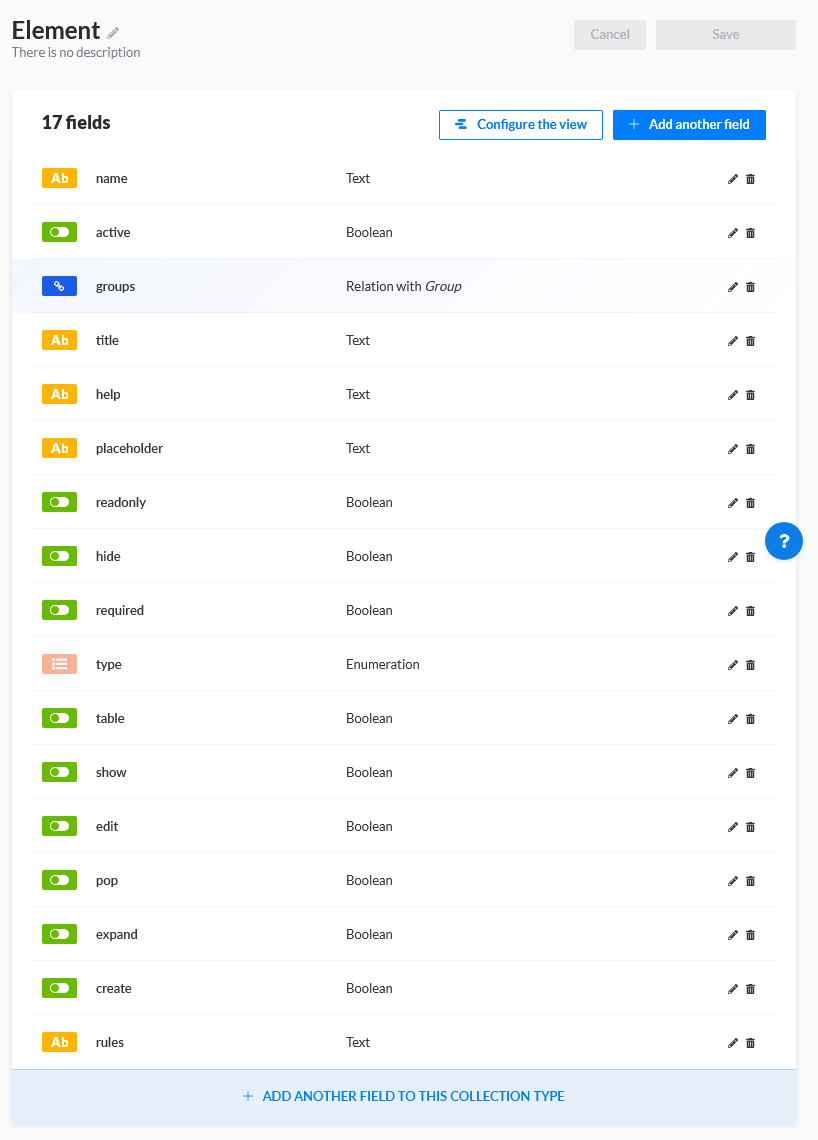
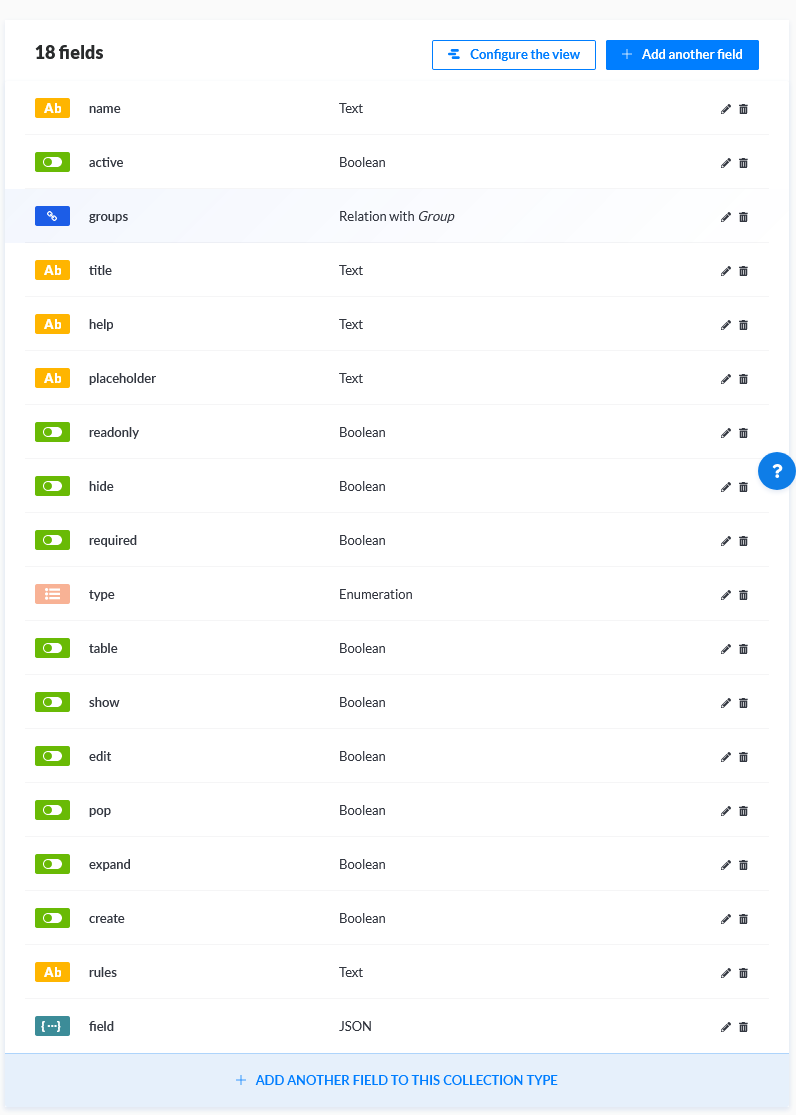
update and fix grammar mistakes

diff --git a/content/en/builder/api.md b/content/en/builder/api.md
@@ -1,25 +1,248 @@
 ---
-title: API structure
-description: ''
-position: 11
-category: 'Process Builder'
+title: API structure description: ''
+position: 11.1 category: 'Process Builder'
 ---
 
 ## Introduction
-process builder is a component which creates forms, groups and elements. 
-the configuration of process manager loads from API.
 
-## config
+process builder is a component which creates forms, groups and elements. VSD form builder uses 4 strapi collections with
+specific fields:
+1- form 2- group 3- element 4- records
 
-```js[config.js]
-export default {
-     title: 'Register New User',
-     formId: 1,
-     icon: "shield",
-     path: '/admin/process/register-user', // custom name
+as you see, we have to create following collections:
+
+## 1. form
+
+go to Strap Admin panel and create a form collection. this collection has relations to group (many-to-many) and record (
+one-to-many).
+
+list of fields:
+
+```json[form]
+{
+  "id": "string",
+  "name": "string",
+  "photo": {
+    "id": "string",
+    "name": "string",
+    "alternativeText": "string",
+    "caption": "string",
+    "width": 0,
+    "height": 0,
+    "formats": {},
+    "hash": "string",
+    "ext": "string",
+    "mime": "string",
+    "size": 0,
+    "url": "string",
+    "previewUrl": "string",
+    "provider": "string",
+    "provider_metadata": {},
+    "related": "string"
+  },
+  "active": true,
+  "groups": [
+    {
+      "id": "string",
+      "name": "string",
+      "pre_text": "string",
+      "after_text": "string",
+      "active": true,
+      "forms": [
+        "string"
+      ],
+      "photo": "string",
+      "title": "string",
+      "page_break": true,
+      "elements": [
+        "string"
+      ]
+    }
+  ],
+  "records": [
+    {
+      "id": "string",
+      "form": "string",
+      "meta": {},
+      "status": "string",
+      "data": {}
+    }
+  ],
+  "title": "string",
+  "pre_text": "string",
+  "after_text": "string"
 }
 ```
 
-## props
-- v-model 
-- label
+after that, when you want to load a form in VSD, you just need to put form id in `config.js` file like this:
+
+```js[config.js]
+export default {
+  title: 'Users',
+  formId: 1, // form id from Strapi
+  icon: "shield",
+  path: '/admin/process/register-user'
+}
+
+```
+
+![form-strapi](/content/form-strapi.png)
+
+## 2. group
+
+group collection has a relation with form, and also a many-to-many relation with element collection. like above, create
+a group collection with these fields in strapi:
+
+```json[group]
+{
+  "id": "string",
+  "title": "string",
+  "name": "string",
+  "pre_text": "string",
+  "after_text": "string",
+  "active": true,
+  "forms": [
+    {
+      "id": "string",
+      "name": "string",
+      "photo": "string",
+      "active": true,
+      "groups": [
+        "string"
+      ],
+      "records": [
+        "string"
+      ],
+      "title": "string",
+      "pre_text": "string",
+      "after_text": "string"
+    }
+  ],
+  "photo": {
+    "id": "string",
+    "name": "string",
+    "alternativeText": "string",
+    "caption": "string",
+    "width": 0,
+    "height": 0,
+    "formats": {},
+    "hash": "string",
+    "ext": "string",
+    "mime": "string",
+    "size": 0,
+    "url": "string",
+    "previewUrl": "string",
+    "provider": "string",
+    "provider_metadata": {},
+    "related": "string"
+  },
+  "page_break": true,
+  "elements": [
+    {
+      "id": "string",
+      "name": "string",
+      "active": true,
+      "groups": [
+        "string"
+      ],
+      "title": "string",
+      "help": "string",
+      "placeholder": "string",
+      "readonly": true,
+      "hide": true,
+      "required": true,
+      "type": "string",
+      "table": true,
+      "show": true,
+      "edit": true,
+      "pop": true,
+      "expand": true,
+      "create": true,
+      "rules": "string",
+      "field": {}
+    }
+  ]
+}
+```
+
+![group-strapi](/content/group-strapi.png)
+
+## 3. element
+
+element collection belongs to many groups. like above, create an element collection with these fields in strapi:
+
+```json[element]
+{
+  "id": "string",
+  "name": "string",
+  "active": true,
+  "groups": [
+    {
+      "id": "string",
+      "name": "string",
+      "pre_text": "string",
+      "after_text": "string",
+      "active": true,
+      "forms": [
+        "string"
+      ],
+      "photo": "string",
+      "title": "string",
+      "page_break": true,
+      "elements": [
+        "string"
+      ]
+    }
+  ],
+  "title": "string",
+  "help": "string",
+  "placeholder": "string",
+  "readonly": true,
+  "hide": true,
+  "required": true,
+  "type": "text",
+  "table": true,
+  "show": true,
+  "edit": true,
+  "pop": true,
+  "expand": true,
+  "create": true,
+  "rules": "string",
+  "field": {}
+}
+```
+
+![element-strapi](/content/element-strapi.png)
+
+you can check out [elements](/elements/elements) for available element types.
+
+## 4. records
+
+to save data records we need a collection. you can change controller of this endpoint to customize saved data. if you
+want use it normally, create a collection with name "record", with following fields:
+
+```json[record]
+{
+  "id": "string",
+  "form": {
+    "id": "string",
+    "name": "string",
+    "photo": "string",
+    "active": true,
+    "groups": [
+      "string"
+    ],
+    "records": [
+      "string"
+    ],
+    "title": "string",
+    "pre_text": "string",
+    "after_text": "string"
+  },
+  "meta": {},
+  "status": "unknown",
+  "data": {}
+}
+```
+
+![records-strapi](/content/records-strapi.png)

diff --git a/content/en/index.md b/content/en/index.md
@@ -5,27 +5,28 @@ position: 1
 category: 'Introduction'
 features:
   - advanced CRUD matched with Strapi 
-  - set up crud Table, Froms, Show Pages with 2 json files
+  - set up crud Table, Forms, Show Pages with 2 json files
   - menu, Sidebar and beautiful loaders
   - match with custom APIs easily
 ---
 [![nuxt vuetify strapi dashboard](/banner.png)](https://vsd.savy.ir)
 
 # Introduction - Advanced Vuetify Dashboard 
-[Strapi](https://strapi.io) is a powerful Headless CMS, but it is designed for developers. your customers need a better UI. [Vuetify](vuetifyjs.com) is a greate UI kit to create beautiful dashboard systems.
+[Strapi](https://strapi.io) is a powerful Headless CMS, but it is designed for developers. your customers need a better UI. [Vuetify](vuetifyjs.com) is a great UI kit to create beautiful dashboard systems.
 VSD (Vuetify Strapi Dashboard) is a set of UI components for creating beautiful a dashboard or CRM for your customers.
 
 [Start Here](/setup/setup)
 
 ## professional and fast developing
-the main reason why we combined Nuxt Vuetify and Strapi is that we as programmers need powerful and popular frameworks to have safe and professional panels. but when it comes to business, time is everything. with `VSD` both professional stack and fast developing are met.
+the main reason why we combined Nuxt Vuetify and Strapi is that we as programmers need powerful and popular frameworks to have safe and professional panels. 
+when it comes to business, time is everything. with `VSD` both professional stack and fast developing are met.
 
 ## time saving
-you can setup Strapi and VSD CRUDs in less than 10 minutes! now your panel is ready. this dashboard designed for Lazy developers who loves be professional. 
+you can install Strapi and VSD CRUDs in less than 10 minutes! now your panel is ready. this dashboard designed for Lazy developers who love be professional. 
 when you have just 1 month to use your energy and willpower to build a system for your business, Strapi for backend and Nuxt for Frontend is best options.
 
 ## systems and businesses
-systems are key. you design your business system and work on it, then you wait for right time to make a lot money without that much work
+systems are key. you design your business system and work on it, then you wait for right time to make a lot of money without that much work
 
 
 ## Features

diff --git a/content/en/builder/elements.md b/content/en/builder/elements.md
@@ -1,7 +1,7 @@
 ---
-title: Form
+title: Elements
 description: ''
-position: 11.3
+position: 11.5
 category: 'Process Builder'
 ---
 

diff --git a/content/en/builder/groups.md b/content/en/builder/groups.md
@@ -1,7 +1,7 @@
 ---
-title: Form
+title: Group
 description: ''
-position: 11.3
+position: 11.4
 category: 'Process Builder'
 ---
 

diff --git a/content/en/builder/process.md b/content/en/builder/process.md
@@ -1,7 +1,7 @@
 ---
 title: Process Builder
 description: ''
-position: 11.1
+position: 11
 category: 'Process Builder'
 ---
 

diff --git a/content/en/builder/records.md b/content/en/builder/records.md
@@ -1,7 +1,7 @@
 ---
 title: Records
 description: ''
-position: 11.4
+position: 11.6
 category: 'Process Builder'
 ---
 
